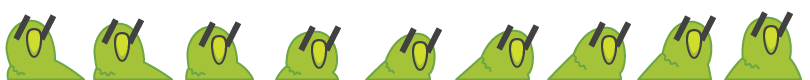
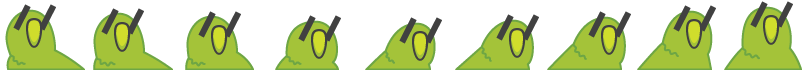
updated hero DEAD animation + fps count

diff --git a/src/states/Splash.js b/src/states/Splash.js
@@ -27,8 +27,8 @@ export default class extends Phaser.State {
 		this.load.spritesheet('replay', './assets/images/replay.png', 140, 140)
 		this.load.spritesheet('start', './assets/images/start.png', 140, 140)
 
-		this.load.spritesheet('player', './assets/images/hero-normal.png', 90, 70, 4)
-		this.load.spritesheet('playerDead', './assets/images/hero-dead.png', 90, 70, 3)
+		this.load.spritesheet('player', './assets/images/hero-normal.png', 90, 70, 9)
+		this.load.spritesheet('playerDead', './assets/images/hero-dead.png', 90, 70, 13)
 
 		this.load.audio('coin', './assets/audio/coin.wav')
 		this.load.audio('ouch', './assets/audio/ouch.wav')

diff --git a/src/sprites/Player.js b/src/sprites/Player.js
@@ -33,7 +33,7 @@ export default class extends Phaser.Sprite {
 		this.body.velocity.x = 0
 		// change sprite image
 		this.loadTexture('playerDead')
-		this.animations.play('dead', 13, true)
+		this.animations.play('dead', 26, true)
 	}
 
 	/**
